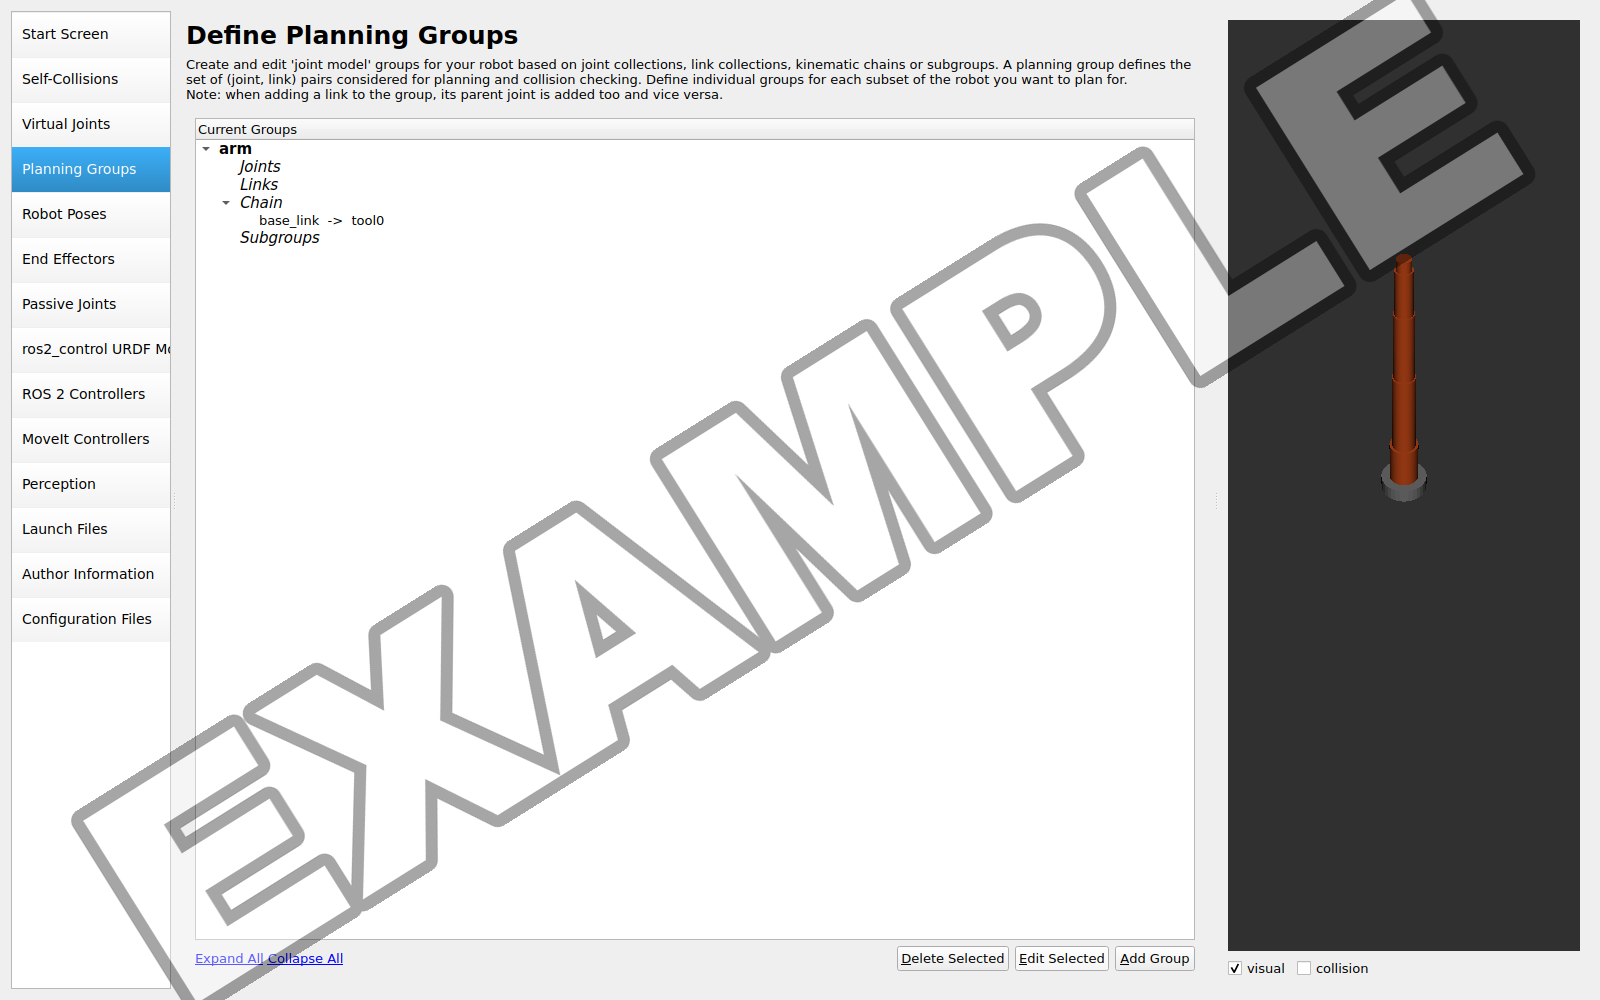
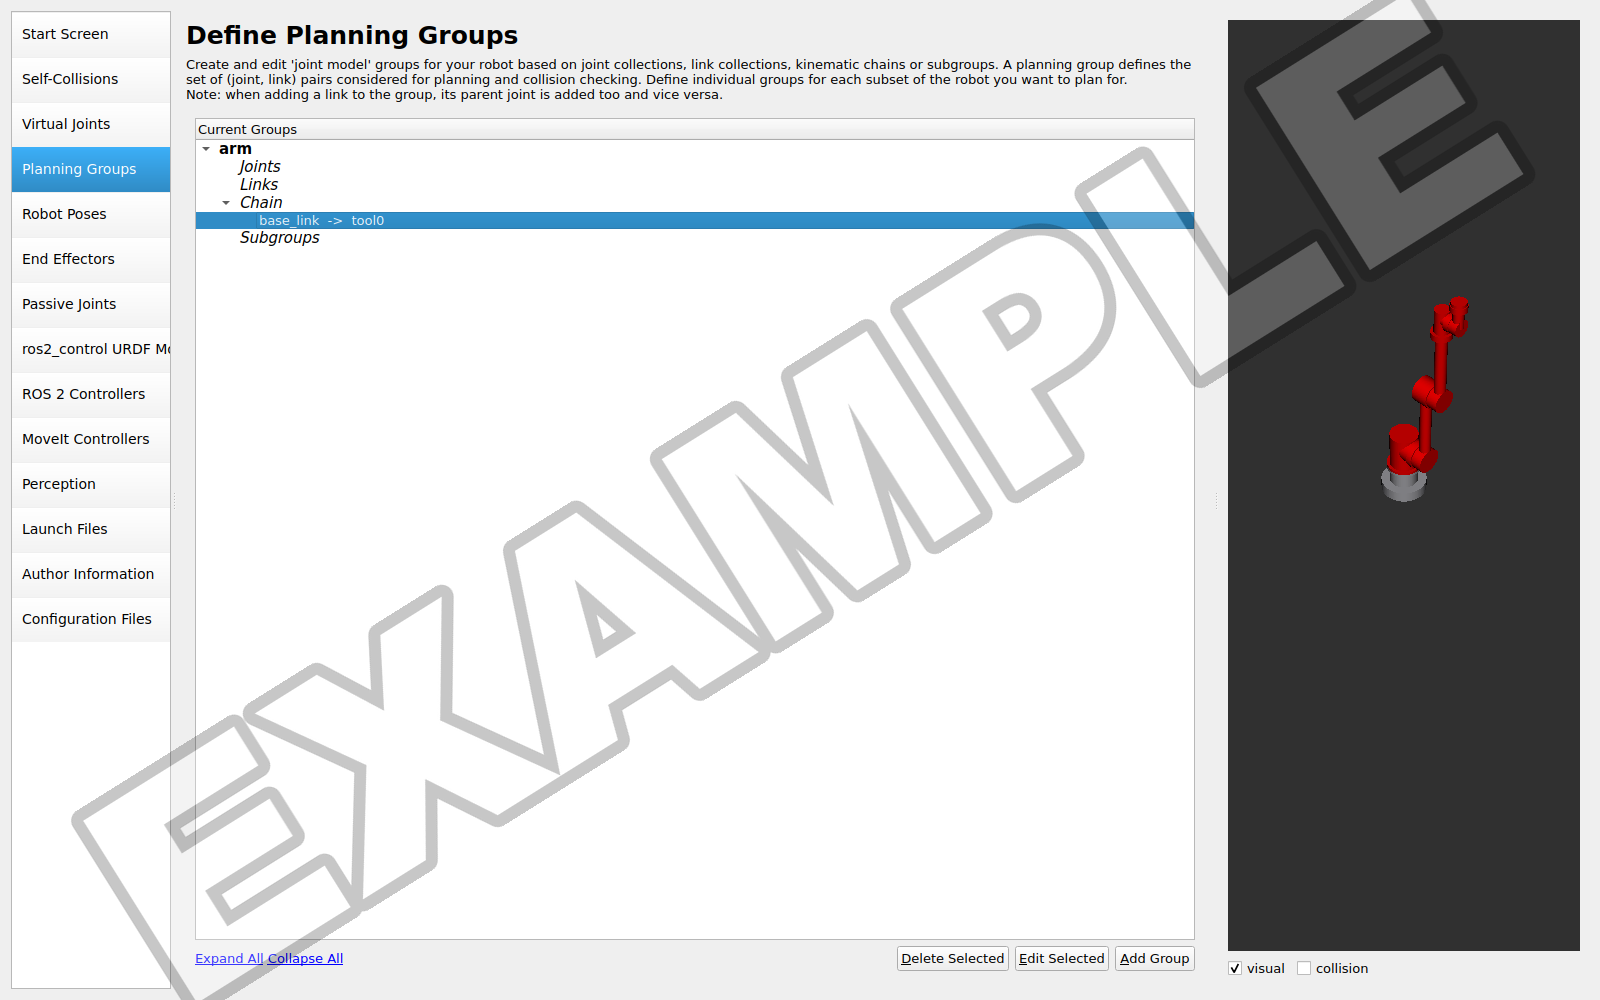
Add Fusion exporter guidance to the challenge homework help page
A section on generating the URDF with the Fusion exporter, the world link it
needs for Gazebo, the integer-limit fix, and screenshots of the new example arm.

diff --git a/docs/guides/challenge_hw_help.md b/docs/guides/challenge_hw_help.md
@@ -1,10 +1,9 @@
 # Challenge Homework Help
 
 This page provides example screenshots, setup notes, and troubleshooting guidance
-for Robotics Challenge Homeworks 1 and 2. Consult it while working through the
-assignments.
+for Robotics Challenge Homeworks 1 and 2.
 
-Everything here was tested in the Kinova course image
+Use the Kinova course image
 (`ghcr.io/mems-intro-to-robotics/mems-robotics-toolkit:kinova-jazzy-latest`), the
 same image as Labs 5 and 6.
 
@@ -45,14 +44,65 @@ docker run --rm -it --name chw --net=host --gpus all -e DISPLAY=$DISPLAY -e ROS_
 
 Open more terminals with `docker exec -it chw bash`. Keep your workspace at
 `ros2_ws/` in your repository, build it with `colcon build --symlink-install`, and
-source `install/setup.bash` in every terminal that runs your code. Git runs on the
-VM, not in the container.
+source `install/setup.bash` in every terminal that runs your code. Run Git on the
+VM.
 
 ## Homework 1: CAD, URDF, and RViz
 
-### Package layout
+### Generating the URDF from Fusion
 
-A description package is an `ament_cmake` package that installs its folders:
+Staff tested the
+[Fusion 360 URDF exporter for ROS 2](https://github.com/runtimerobotics/fusion360-urdf-ros2)
+on an example arm in the course image on 2026-10-09; its output worked in RViz,
+the Setup Assistant, and Gazebo after the edits below. Install it as its README
+describes. Exporters for other CAD programs exist, and any of them is allowed.
+
+Set up the Fusion design before exporting:
+
+- Make one component per link, all directly under the top level of the design.
+- Name the base component `base_link`.
+- Connect the links with Revolute joints, and set both rotation limits on every
+  joint. The exporter stops with an error when a limit is missing.
+- Assign a material to every component so the exporter calculates masses and
+  inertias from those materials.
+
+When the exporter asks whether you use Gazebo Harmonic, answer **Yes**. It writes
+an `ament_python` package named after the first word of the design's name, with
+`_description` added, and names each link after its Fusion component (`link1:1`
+becomes `link1_1`). Copy that package into `ros2_ws/src/` and build it.
+
+Then edit the generated `urdf/<robot>.xacro`:
+
+- **Add a `world` link (required).** Without it the base is free to move in
+  Gazebo. In the staff test, the arm tipped over when it reached out, while the
+  measured joint positions still matched the commands. Add this just before the
+  `base_link` link:
+
+    ```xml
+    <link name="world"/>
+    <joint name="world_fixed" type="fixed">
+      <parent link="world"/>
+      <child link="base_link"/>
+    </joint>
+    ```
+
+- **Add `tool0` (optional).** A fixed link at the tool flange gives the Setup
+  Assistant's chain and your task script a clear end point. Without it, end the
+  chain at your last link.
+- **Check the inertias.** The exporter rounds every inertia value to six decimal
+  places in kg·m². A very small link can come out with zeros; enlarge or replace
+  those values.
+- **Joint speed.** The exporter sets every joint's velocity limit to 100 rad/s.
+  MoveIt slows motions to a tenth of the limit by default; lower the limit in the
+  URDF if the arm still moves too fast.
+
+The URDF file is `<robot>.xacro`, so pass that path to `display.launch.py` and
+the Setup Assistant. Its mesh paths start with `file://$(find ...)`, which
+`xacro` fills in; every course tool reads the URDF through `xacro`.
+
+### Writing the package by hand
+
+Use an `ament_cmake` description package with this layout and install its folders:
 
 ```text
 ros2_ws/src/<robot>_description/
@@ -69,22 +119,23 @@ In `CMakeLists.txt`, after `find_package(ament_cmake REQUIRED)`:
 install(DIRECTORY urdf meshes DESTINATION share/${PROJECT_NAME})
 ```
 
-Refer to meshes as `package://<robot>_description/meshes/<link>.stl`. That path only
-resolves after the package is built and `install/setup.bash` is sourced. If RViz
-reports `Could not load resource [package://...]`, one of those two steps is missing.
+Refer to meshes as `package://<robot>_description/meshes/<link>.stl`. Build the package and source
+`install/setup.bash` so ROS can locate its installed resources. If RViz
+reports `Could not load resource [package://...]`, check the build, the sourced
+environment, and the mesh path.
 
 ### Exporting meshes from CAD
 
 - **Units.** STL files have no units. If your CAD tool exports in millimeters, ROS
   interprets the values as meters, so the mesh appears 1000 times too large. Export in
   meters or add `scale="0.001 0.001 0.001"` to each `<mesh>` element.
-- **Origins.** A link's mesh is drawn at that link's frame, which sits at the joint
-  that drives the link. In CAD, place each part so its origin is on its joint axis
-  before you export it. An origin elsewhere can make the link appear offset.
+- **Origins.** A mesh's pose is defined relative to its link frame. Export each
+  part with an origin and orientation that match the link frame, or account for
+  the difference with the URDF visual origin.
 - **Mass properties.** CAD tools report each part's mass, center of mass, and
   inertia tensor once you assign a material. Use those numbers in `<inertial>`, and
   convert them to kilograms, meters, and kg·m². Make sure the inertia is about the
-  center of mass, expressed in the link frame.
+  center of mass, expressed in the inertial frame defined in the URDF.
 
 ### Checking and displaying the URDF
 
@@ -93,16 +144,18 @@ check_urdf <(xacro ros2_ws/src/<robot>_description/urdf/<robot>.urdf.xacro)
 ros2 launch display.launch.py model:=ros2_ws/src/<robot>_description/urdf/<robot>.urdf.xacro
 ```
 
-`check_urdf` prints the tree of links. Your arm should appear as one chain from
+`check_urdf` prints the tree of links. Check that the arm's links form a chain from
 `world` to `tool0`. `display.launch.py` opens RViz and a window of joint sliders;
 **Randomize** moves every joint at once.
 
-![RViz with a test arm and the joint slider window](../assets/challenge_hw/display.png)
+![RViz with an example arm and the joint slider window](../assets/challenge_hw/display.png)
 
-*A test arm built from cylinders with an STL base, shown by `display.launch.py`.*
+*An example arm built from cylinders and round flanges, shown by `display.launch.py`
+and posed with the sliders.*
 
-If RViz shows `Frame [world] does not exist`, your root link is not named `world`.
-Rename it, or pass `fixed_frame:=<your root link>`.
+If RViz shows `Frame [world] does not exist`, check that the robot's transforms
+are being published. If the root link is not named `world`, rename it or pass
+`fixed_frame:=<your root link>`.
 
 ## Homework 2: MoveIt and Gazebo
 
@@ -112,10 +165,9 @@ Rename it, or pass `fixed_frame:=<your root link>`.
 ros2 launch moveit_setup_assistant setup_assistant.launch.py
 ```
 
-- **Load the URDF with Browse. Do not type in the path field.** The Setup Assistant
-  tries to load the path after every keystroke, and it crashes as soon as the text
-  is a folder, such as the first `/`. Pick the `.urdf.xacro` file from your
-  `src/` folder in the Browse dialog.
+- **Load the URDF with Browse.** Typing a partial path, such as `/`, can
+  trigger a crash in the course version of the Setup Assistant. Pick the
+  `.urdf.xacro` file from your `src/` folder in the Browse dialog.
 - **Planning group.** Add a group with a KDL kinematics solver, then
   **Add Kin. Chain** from your base link to `tool0`.
 - **Robot poses.** Add at least one named pose, such as `home`, for your task to
@@ -124,22 +176,27 @@ ros2 launch moveit_setup_assistant setup_assistant.launch.py
   position and velocity state). On both the **ROS 2 Controllers** and the
   **MoveIt Controllers** pages, use the Auto Add button.
 - **Configuration files.** Fill in Author Information first, then generate into
-  `ros2_ws/src/<robot>_moveit_config`. A warning about incomplete steps (end
-  effectors, virtual joints) is expected; continue.
+  `ros2_ws/src/<robot>_moveit_config`. Warnings about end effectors or virtual joints
+  can be left unresolved if your robot configuration does not need them.
 
-![Planning group defined as a kinematic chain](../assets/challenge_hw/setup_assistant.png)
+![Planning group arm defined as a kinematic chain from base_link to tool0](../assets/challenge_hw/setup_assistant.png)
 
 ### Fix the generated package
 
-The Setup Assistant in ROS 2 Jazzy generates two files that stop MoveIt from working:
+Check for these configuration problems in packages generated by the
+Setup Assistant in ROS 2 Jazzy:
 
-- `joint_limits.yaml` switches acceleration limits off. Planning then fails with
+- `joint_limits.yaml` may have acceleration limits disabled. Planning can fail with
   `No acceleration limit was defined for joint ...`, which pymoveit2 reports as
   `Error code: 99999`.
-- `moveit_controllers.yaml` leaves out the controller's action namespace. MoveIt
-  then logs `Returned 0 controllers in list`, and plans never execute.
+- `moveit_controllers.yaml` may omit the controller's action namespace. MoveIt
+  can then log `Returned 0 controllers in list` and fail to execute plans.
+- `joint_limits.yaml` copies whole-number limits from the URDF as whole numbers,
+  for example `max_velocity: 100` from the Fusion exporter's `velocity="100"`.
+  MoveIt then stops at startup with `expected [double] got [integer]`, and every
+  plan fails.
 
-`fix_moveit_config.py` corrects both. Run it after regenerating the package,
+`fix_moveit_config.py` corrects all three. Run it after regenerating the package,
 then rebuild:
 
 ```bash
@@ -167,19 +224,22 @@ controller and `joint_state_broadcaster` as `active`.
 Stop `demo.launch.py` before you start Gazebo. It runs its own controllers for the
 same joints.
 
-![The test arm in the starter world](../assets/challenge_hw/gazebo.png)
+![The example arm touching a target on the table in Gazebo](../assets/challenge_hw/gazebo.png)
+![The same moment in RViz, with the table and post as green planning-scene boxes](../assets/challenge_hw/planning_scene.png)
 
-*The test arm in `task_world.sdf`. The table is only in Gazebo, not in MoveIt's
-planning scene, so MoveIt does not avoid it.*
+*An example task: the arm touches targets on the table and goes around the red
+post. MoveIt does not read Gazebo's world, so the task script adds the table and
+post to the planning scene (green in RViz) before it plans.*
 
 ### Your world
 
-Copy `task_world.sdf` and edit it. Objects with `<static>true</static>` never
-move, which suits tables and fixtures. The three `<plugin>` lines at the top are
+Copy `task_world.sdf` and edit it. Objects with `<static>true</static>` stay fixed
+under physics simulation, which suits tables and fixtures. The three `<plugin>` lines at the top are
 the systems Gazebo loads by default. Gazebo uses its defaults only when a world
 lists no plugins, so if you add a plugin of your own, keep those three beside it.
 
-Objects in the world file exist only in Gazebo. To make MoveIt plan around them,
+Gazebo world objects are not automatically added to MoveIt's planning scene.
+To make MoveIt plan around them,
 add matching boxes to the planning scene from your script with
 `add_collision_box`, as in Lab 5 milestone 3.
 
@@ -190,12 +250,14 @@ effector (`tool0`), and group name. The
 [pymoveit2 API guide](pymoveit2_api_guide.md) covers the calls.
 
 - Start the script after the MoveIt terminal prints
-  `Ready to take commands for planning group`. A script that starts earlier gets
-  `Service 'plan_kinematic_path' is not yet available` and no plan.
+  `Ready to take commands for planning group`. A script that requests a plan before the service is ready can report
+  `Service 'plan_kinematic_path' is not yet available` and fail to plan.
 - The planner is randomized, so retry a failed plan a few times before giving up,
   as `move_to_joints()` did in Lab 5.
-- Check each move from the measured joint positions on `/joint_states`, not from
-  the return value of `execute()`.
+- Check that each move reached its goal using the measured joint positions on
+  `/joint_states`; the return value of `execute()` alone does not confirm arrival. In a staff run of the example task,
+  `execute()` reported success while the arm was stopped 74 mm short of its goal
+  in Gazebo.
 
 ### Grasping in Gazebo
 
@@ -206,16 +268,18 @@ Tasks without grasping are also acceptable.
 
 ## Troubleshooting
 
-| Symptom | Cause and fix |
+| Symptom | Possible cause and checks |
 |---|---|
 | Setup Assistant closes while you type the URDF path | Known crash; use Browse. |
 | `No acceleration limit was defined for joint` | Run `fix_moveit_config.py`, rebuild. |
 | `Returned 0 controllers in list`, plans never move the arm | Run `fix_moveit_config.py`, rebuild. |
+| `move_group` stops at startup with `expected [double] got [integer]` | Run `fix_moveit_config.py`, rebuild. |
+| The whole arm tips over in Gazebo | The URDF has no `world` link fixed to `base_link`; add one (see "Generating the URDF from Fusion"). |
 | `Could not load resource [package://...]` | Build the description package and source `install/setup.bash`; check that `CMakeLists.txt` installs `meshes`. |
-| Robot is huge in RViz or Gazebo | Meshes exported in millimeters; add `scale="0.001 0.001 0.001"`. |
-| Links float away from their joints | Mesh origins are not at the joint axes; fix the origins in CAD and export again. |
-| Arm collapses or shakes in Gazebo | Check each link's mass and inertia: no zeros, and values that match the part's size. |
-| The arm passes through an object | The object is not in MoveIt's planning scene; add it with `add_collision_box`. |
+| Robot is huge in RViz or Gazebo | If meshes were exported in millimeters, add `scale="0.001 0.001 0.001"`. |
+| Links float away from their joints | Check mesh origins and URDF visual transforms; correct the CAD export or the URDF transform. |
+| Arm collapses or shakes in Gazebo | Check each moving link's mass and inertia: positive mass and a physically valid inertia tensor consistent with the part's size and mass. Off-diagonal inertia terms can be zero. |
+| The arm passes through an object | Check the object's representation and pose in MoveIt's planning scene; add a missing object with `add_collision_box`. |
 
 For container, build, and MoveIt problems that recur across labs, see
 [Troubleshooting](../troubleshooting.md).
